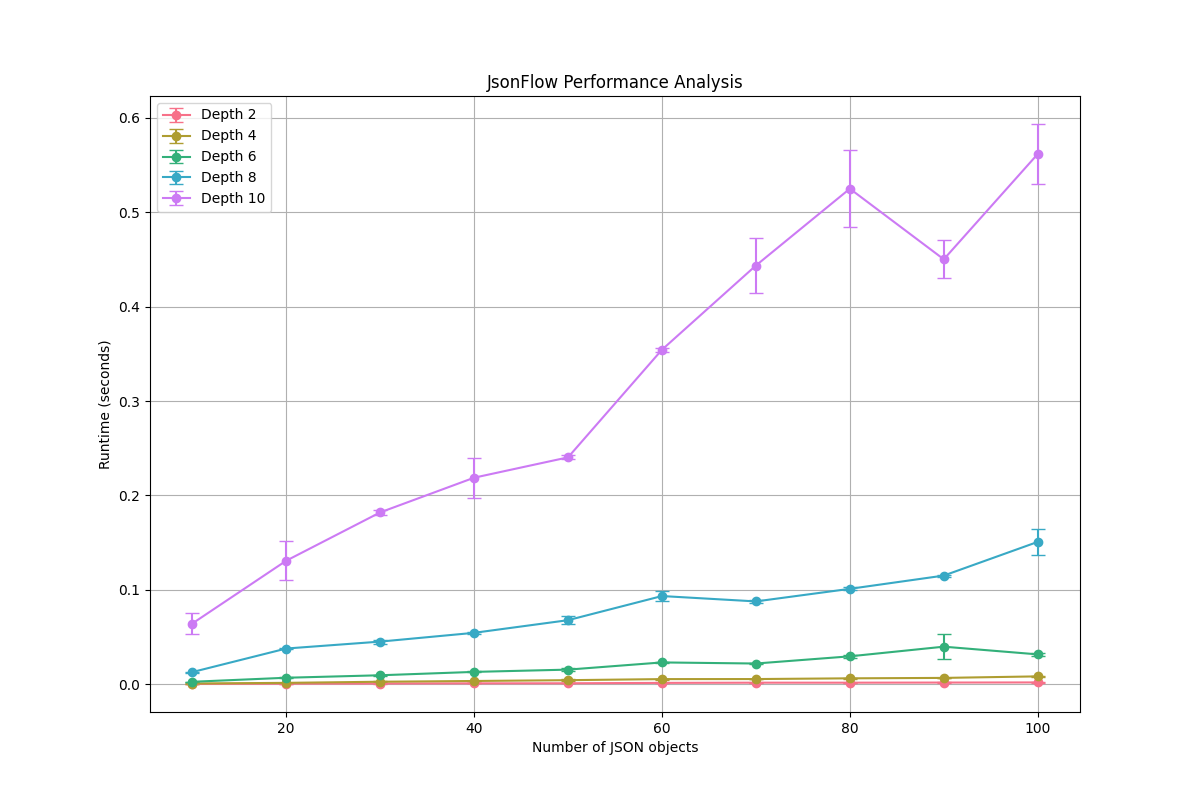
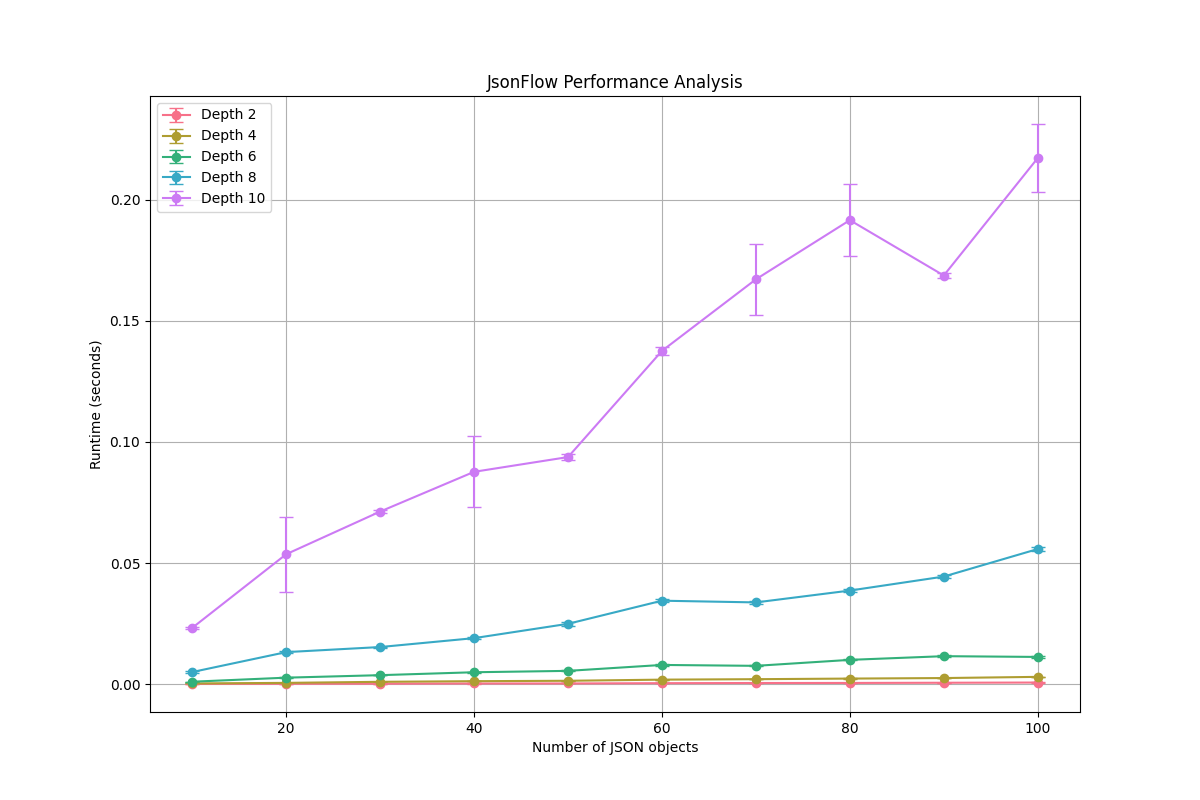
Optimize scan function

diff --git a/src/stream_parser.py b/src/stream_parser.py
@@ -59,123 +59,76 @@ class MalformedJSON(StreamParserJSONDecodeError):
 
 def scan(json_string: str) -> list[tuple[int, str]]:
     """Tokenizes a JSON-like string with emphasis on structural characters.
-
-    This function breaks down a JSON string into tokens, giving precedence to structural
-    characters ([]{}:,) as delimiters. It handles strings, numbers, and JSON literals
-    while preserving their positions in the input.
-
+    
+    This version inlines helper routines to reduce function-call overhead,
+    which can yield significant speedups.
+    
     Args:
         json_string: The input string to be tokenized.
-
+    
     Returns:
         A list of tuples where each tuple contains:
-            - Position (int): The starting index of the token in the input string
-            - Token (str): The actual token string
-
-    Examples:
-        >>> scan('u": "val')
-        [(0, 'u"'), (2, ':'), (4, '"val')]
-        >>> scan('{ "key')
-        [(0, '{'), (1, ' "key')]
+            - Position (int): The starting index of the token in the input string.
+            - Token (str): The actual token string.
     """
     tokens = []
     i = 0
     length = len(json_string)
-
-    # Structural delimiters
-    structural = set("[]{}:,")
-
-    def is_structural(ch):
-        return ch in structural
-
-    # Helper: consume a string (assuming current char is the opening quote).
-    # Returns the substring (including both quotes if we find a closing one),
-    # or from the opening quote to end-of-string if not closed.
-    def consume_string(start_idx):
-        # start_idx should point to the opening quote '"'
-        escaped = False
-        idx = start_idx + 1  # move past the opening quote
-        while idx < length:
-            c = json_string[idx]
-            if escaped:
-                escaped = False
-                idx += 1
-            else:
-                if c == "\\":
-                    escaped = True
-                    idx += 1
-                elif c == '"':
-                    # Found matching closing quote
-                    idx += 1
-                    return json_string[start_idx:idx], idx
-                else:
-                    idx += 1
-        # If we get here, we never found a closing quote
-        return json_string[start_idx:length], length
-
-    # Helper: consume a "word" (letters) or partial text until whitespace/structural
-    def consume_text(start_idx):
-        idx = start_idx
-        while idx < length:
-            # Stop if we hit structural or whitespace
-            if is_structural(json_string[idx]) or json_string[idx].isspace():
-                break
-            idx += 1
-        return json_string[start_idx:idx], idx
-
-    # Helper: consume a number (starting with +, -, or digit)
-    def consume_number(start_idx):
-        idx = start_idx
-        # We already know json_string[idx] is +, -, or digit
-        idx += 1  # consume that sign or first digit
-
-        # forward
-        while idx < length and json_string[idx] in "1234567890.-+eE":
-            idx += 1
-
-        return json_string[start_idx:idx], idx
+    # Structural characters as a string literal (membership check in a small string is fast)
+    structural = "[]{}:,"
 
     while i < length:
         c = json_string[i]
 
-        # Skip whitespace
+        # Skip whitespace.
         if c.isspace():
             i += 1
             continue
 
-        # If it's a structural character, that is always a separate token
-        if is_structural(c):
+        # Structural characters become single tokens.
+        if c in structural:
             tokens.append((i, c))
             i += 1
             continue
 
-        # If chunk starts with a quote, parse as a string
+        # If it starts with a double quote, parse a string.
         if c == '"':
-            text, next_pos = consume_string(i)
-            tokens.append((i, text))
-            i = next_pos
+            start = i
+            i += 1  # Skip the opening quote.
+            escaped = False
+            while i < length:
+                ch = json_string[i]
+                if escaped:
+                    escaped = False
+                    i += 1
+                elif ch == '\\':
+                    escaped = True
+                    i += 1
+                elif ch == '"':
+                    i += 1  # Include the closing quote.
+                    break
+                else:
+                    i += 1
+            tokens.append((start, json_string[start:i]))
             continue
 
-        # Otherwise, let's see if it might be a number
+        # If the token starts with a number character, parse a number.
         if c in "+-0123456789":
-            num_text, next_pos = consume_number(i)
-            tokens.append((i, num_text))
-            i = next_pos
+            start = i
+            i += 1  # Consume the sign or first digit.
+            while i < length and json_string[i] in "0123456789.-+eE":
+                i += 1
+            tokens.append((start, json_string[start:i]))
             continue
 
-        # Otherwise, consume text up to next structural or whitespace
-        text, next_pos = consume_text(i)
-
-        # If the resulting text is exactly one of the JSON literals,
-        # then record it as such.
-        if text in ("true", "false", "null"):
-            tokens.append((i, text))
-        else:
-            tokens.append((i, text))
-
-        i = next_pos
+        # Otherwise, consume text until whitespace or a structural character is encountered.
+        start = i
+        while i < length and (not json_string[i].isspace() and json_string[i] not in structural):
+            i += 1
+        tokens.append((start, json_string[start:i]))
 
     return tokens
+
 
 
 class StreamJsonParser:
